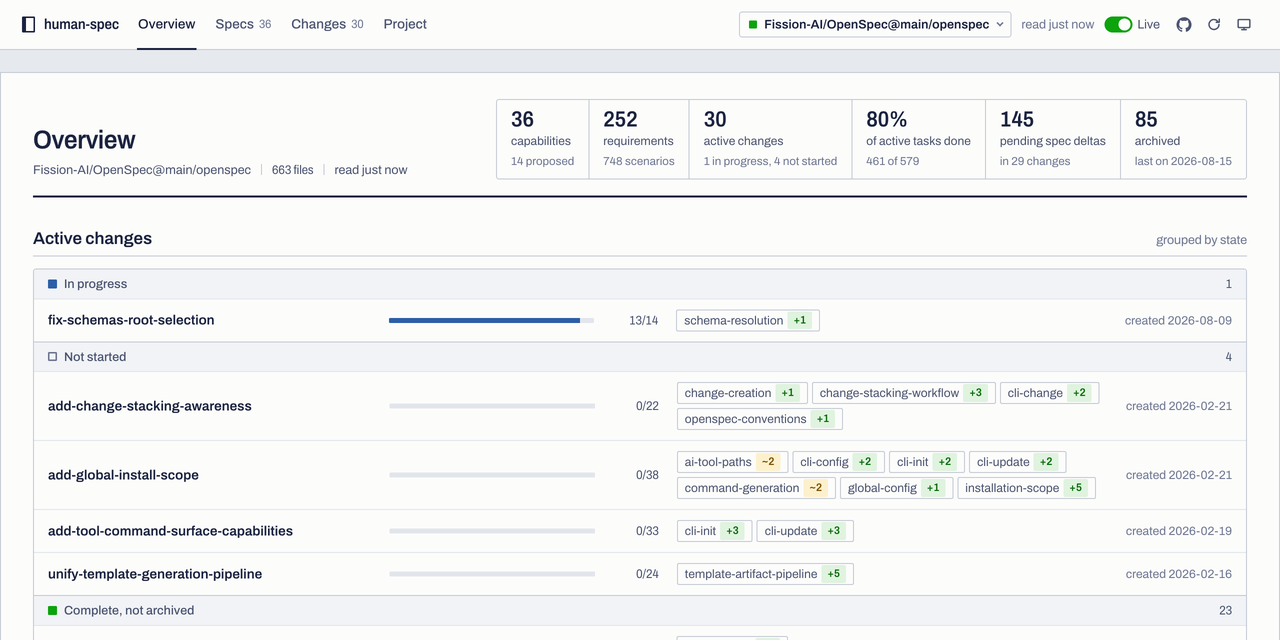
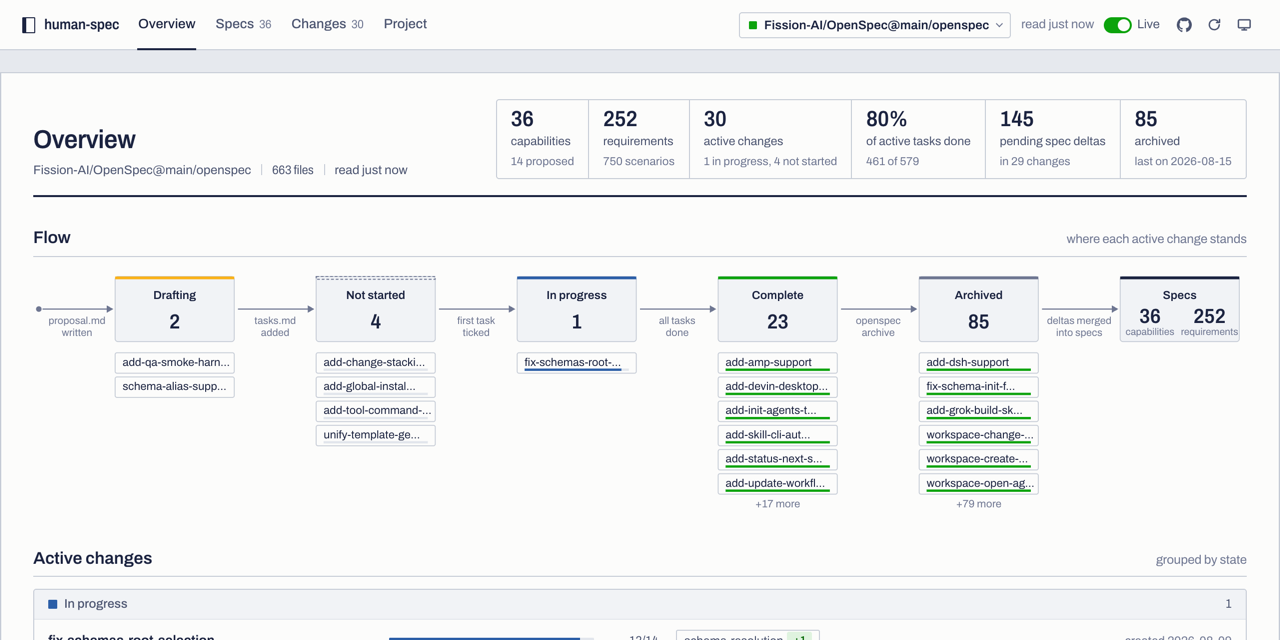
docs: re-render the showcase image now that the overview opens with the flow diagram
Same source and method as before: the overview of Fission-AI/OpenSpec in
headless Chrome at 2x, light scheme, downscaled to 1280×640.

diff --git a/README.md b/README.md
@@ -11,7 +11,7 @@ An OpenSpec viewer. One HTML file, no build step, no dependencies. Point it at a
 
 OpenSpec is text first, which suits agents and tires humans. human-spec is the human side: a read-only dashboard for keeping an eye on the state of the specs and the progress of the work.
 
-![The human-spec overview: a title block of counts and a ledger of active changes grouped by state, here reading the public Fission-AI/OpenSpec repository](docs/showcase.png)
+![The human-spec overview: a title block of counts, the lifecycle flow with each active change placed in its stage, and the ledger of active changes, here reading the public Fission-AI/OpenSpec repository](docs/showcase.png)
 
 ## Open it
 
